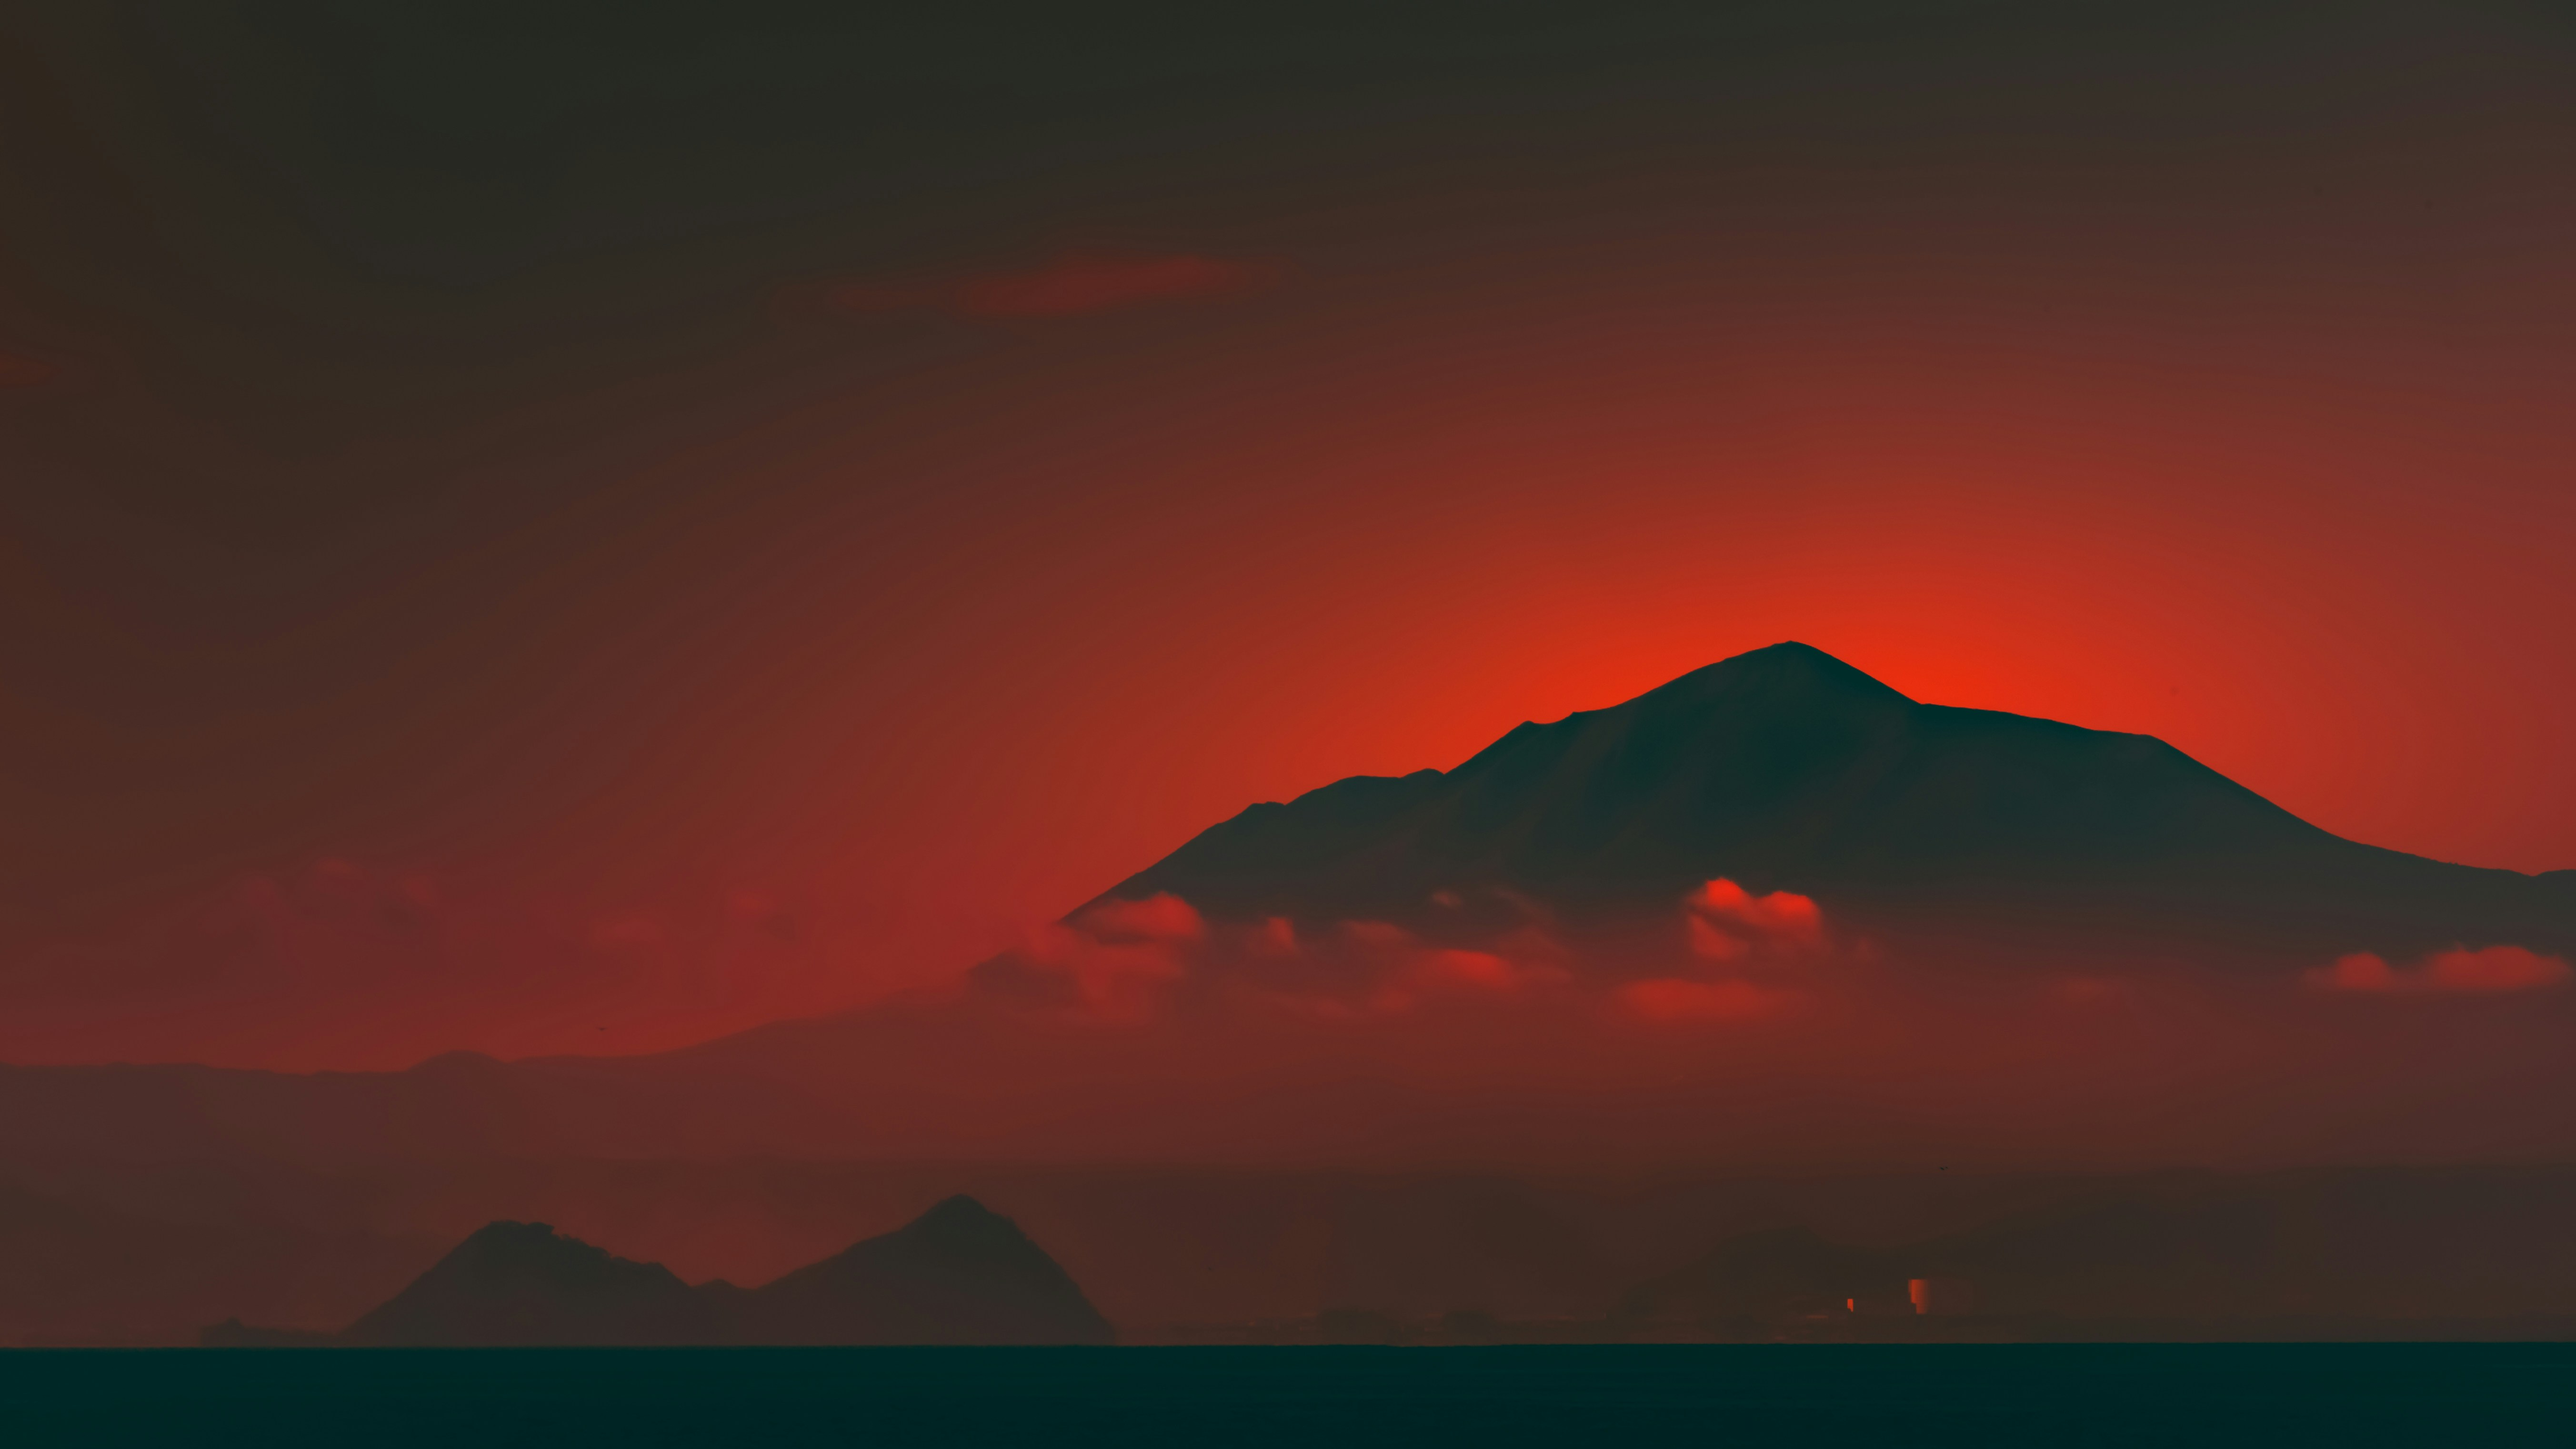
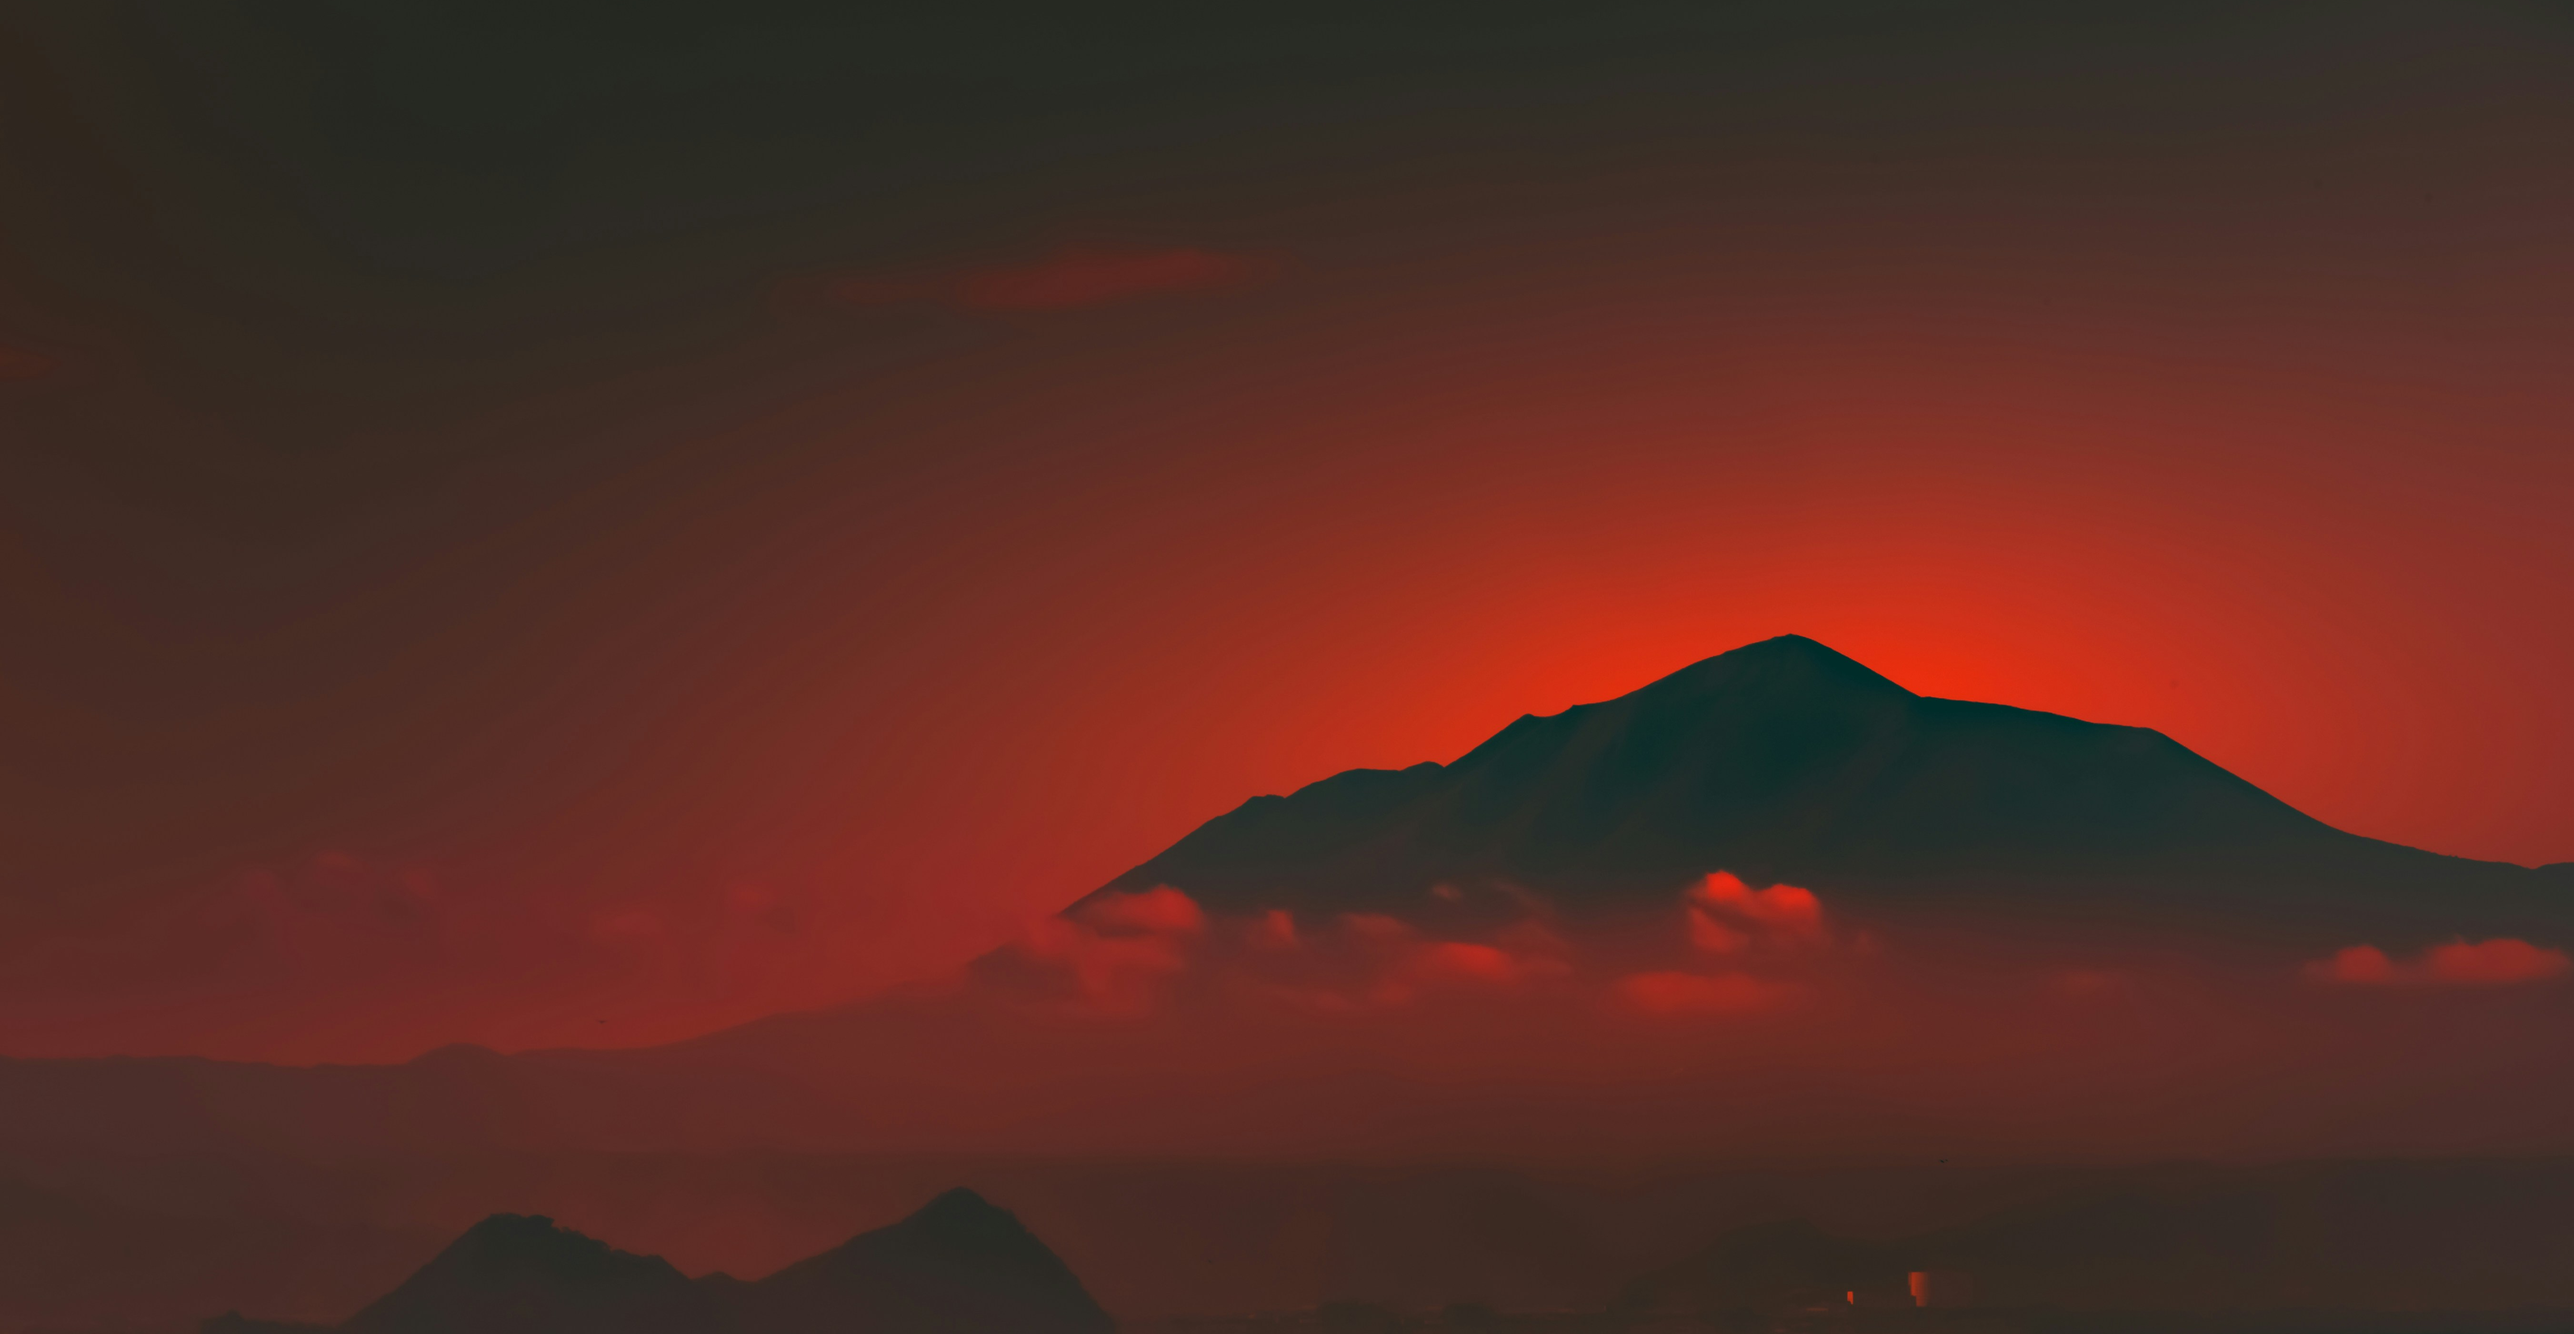
Overlayed text over the image using positioning in Bio section

Changed region(s): [[0.0, 0.4345, 1.0, 1.0]]

diff --git a/index.html b/index.html
@@ -60,20 +60,22 @@
 
     <div class="home_landing-container">
         <div class="home_header-text">
-            <h1>Welcome &#128075; <br> I'm James</h1>
+            <h1>Welcome &#128075;</h1>
                 <p>This is my sandbox!</p> 
             </div>
                 <div class="home_landing-image">
-                    <img class="home_landing-image" src="assets/landing_image3.png" alt="sci fi illustration" height="375px" width="600px">
+                    <img class="home_landing-image" src="assets/landing_image3.png" alt="sci fi illustration" height="500px" width="800px">
                 </div>
             </div>
 
 <!-- Biography section -->                  
 
     <div class="home_biography-container">
-        <img src="assets/bio_background.png" alt="image of setting sun over mountains" height="600px" width="100%">
-
-
+        <img src="assets/bio_background.png" alt="image of setting sun over mountains" height="800px" width="100%">
+            <div class="home_biography-overlay">
+                <h2>My name is James</h2>
+            </div>
+        
 
 
 

diff --git a/styles.css b/styles.css
@@ -32,7 +32,7 @@ body, html {
     position: sticky;
     top: 0;
     padding-bottom: 10px;
-    opacity: 100%;
+    z-index: 1;
 
 /* this stops the screen flicker/tearing */
     backface-visibility: hidden;
@@ -149,12 +149,22 @@ a:hover {
 /* biography */
 
 .home_biography-container {
-    height: 600px;
-
+    height: 800px;
+    position: relative;
+    text-align: center;
 }
 
 .home_biography-container img {
-    opacity: 90%;
+    opacity: 80%;
+}
+
+.home_biography-overlay {
+    position: absolute;
+    top: 15%;
+    left: 50%;
+    transform: translate(-50%, -50%);
+    font-size: 32px;
+    color: whitesmoke;
 }
 
 
